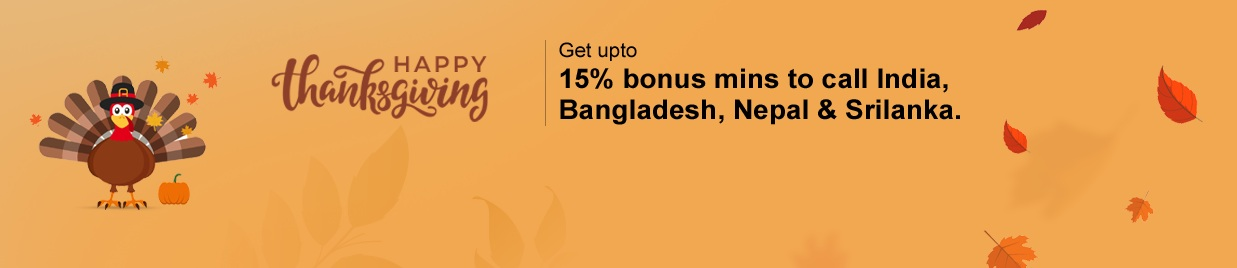
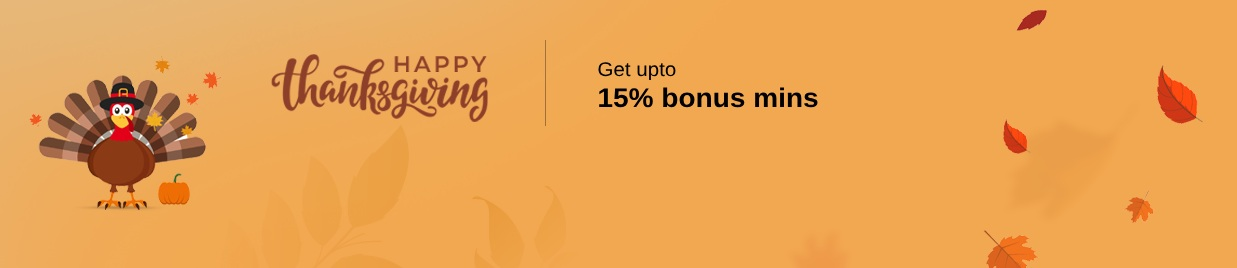
THANKS Giving changes

Changed region(s): [[0.4301, 0.1493, 0.7987, 0.4776]]

diff --git a/src/app/checkout/pages/register/checkout-register.component.html b/src/app/checkout/pages/register/checkout-register.component.html
@@ -1,12 +1,12 @@
 <div class="recharge_block recharge2">
-  
-     
+
+
   <!-- <p class="updateCard" *ngIf="!isPromotion" >Almost there...</p> -->
    <div class="row">
-         <div class="col-md-12 mb-5" *ngIf="promoCode =='DIWALI2023'">
+         <div class="col-md-12 mb-5" *ngIf="promoCode =='THANKS2023'">
       <img src="./assets/images/promotion/{{promoCode}}.jpg" class="img-fluid" alt=" Thanks Giving Banner" />
-    </div>    
-  </div>  
+    </div>
+  </div>
   <div class="container containerMobile">
     <div class="row">
       <div class="col-xl-6 expCheck">
@@ -23,8 +23,8 @@
 
               <div *ngIf="isPromotion==false" class="col-sm-12 formRowM15 text-left current-country">
                 <img alt="flag" height="20" src="./../../assets/images/blank.gif" width="30" [class]="countryFlagCss">
-                
-                
+
+
                  You are in {{currentCountry.CountryName}}
               </div>
               <div *ngIf="isPromotion==true" class="position-relative">
@@ -67,7 +67,7 @@
                 </svg>
                   You are in {{currentSetting.country?.CountryName}}
               </div>
-              
+
             </div>
 
               <div class="col-sm-12 formRowM15">
@@ -86,8 +86,8 @@
                   </div>
                   <button mat-button class="login-button" (click)="loginWithEmail()">
                     <img src="./assets/images/app-icons/email.png" alt=""> Continue with Email
-                  </button> 
-                   
+                  </button>
+
                 </div>
               </div>
             </div>
@@ -115,12 +115,12 @@
               <td>Service Fee</td>
               <td>{{ currentCart?.calculateServiceFee() | bCurrency : currentCart?.currencyCode  }}</td>
             </tr>
-			
+
 			<tr *ngIf="currentCart?.offerPercentage">
               <td><b>Bonus</b></td>
               <td><b>{{currentCart?.offerPercentage}}%</b></td>
             </tr>
-			
+
             <tr class="total">
               <td>Total ({{currentCart?.currencyCode}})</td>
               <td>{{currentCart?.totalAmount() | bCurrency : currentCart?.currencyCode  }}</td>

diff --git a/src/app/checkout/pages/payment-info/checkout-payment.component.html b/src/app/checkout/pages/payment-info/checkout-payment.component.html
@@ -16,15 +16,15 @@
       </div>
     </div>
   </div> -->
-    
-     <div class="col-md-12 mt-5 mb-4" *ngIf="promoCode =='DIWALI2023'">
+
+     <div class="col-md-12 mt-5 mb-4" *ngIf="promoCode =='THANKS2023'">
     <img src="./assets/images/promotion/{{promoCode}}.jpg" class="img-fluid" alt="Thanks Giving Banner" />
-  </div>    
+  </div>
   <div class="rechargeStepMain pt-2" *ngIf="currentCart.couponCode =='FREETRIAL'">
     <div class="rechargeStep">
       <div class="f-ttile">Call Any Mobile And Landline Number</div>
       <div class="f-description">Get Unlimited access to all premium features. <span>No credit card required.</span></div>
-       
+
     </div>
   </div>
 
@@ -35,7 +35,7 @@
       <div class="row">
       <div class="col-xl-8">
         <router-outlet></router-outlet>
-        
+
       </div>
       <!-- <div class="col-xl-1"></div> -->
       <div class="col-xl-4">
@@ -120,7 +120,7 @@
         <a href="#" type="button" class="btn btn-warning mr-0 mr-lg-4 mb-2">CONFIRM</a>
         <a href="/features" class="small mt-2">100% Money Back Guarantee</a>
         <a href="/support">Privacy Policy</a>
-        <a href="/termsandcondition">Terms of service</a> 
+        <a href="/termsandcondition">Terms of service</a>
       </div>
     </div>
   </div>
